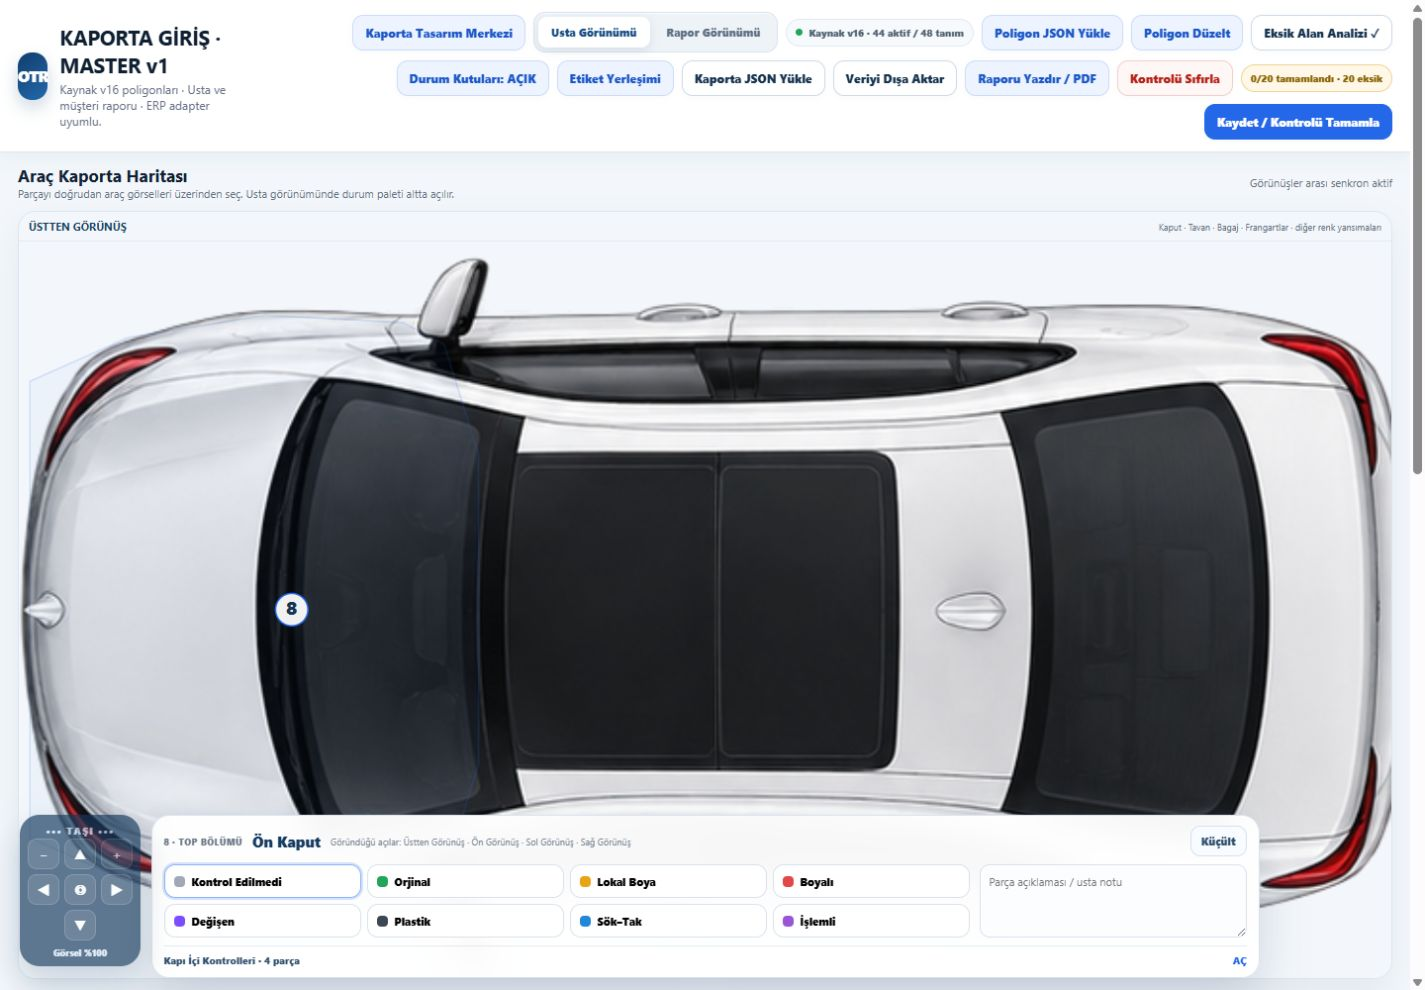
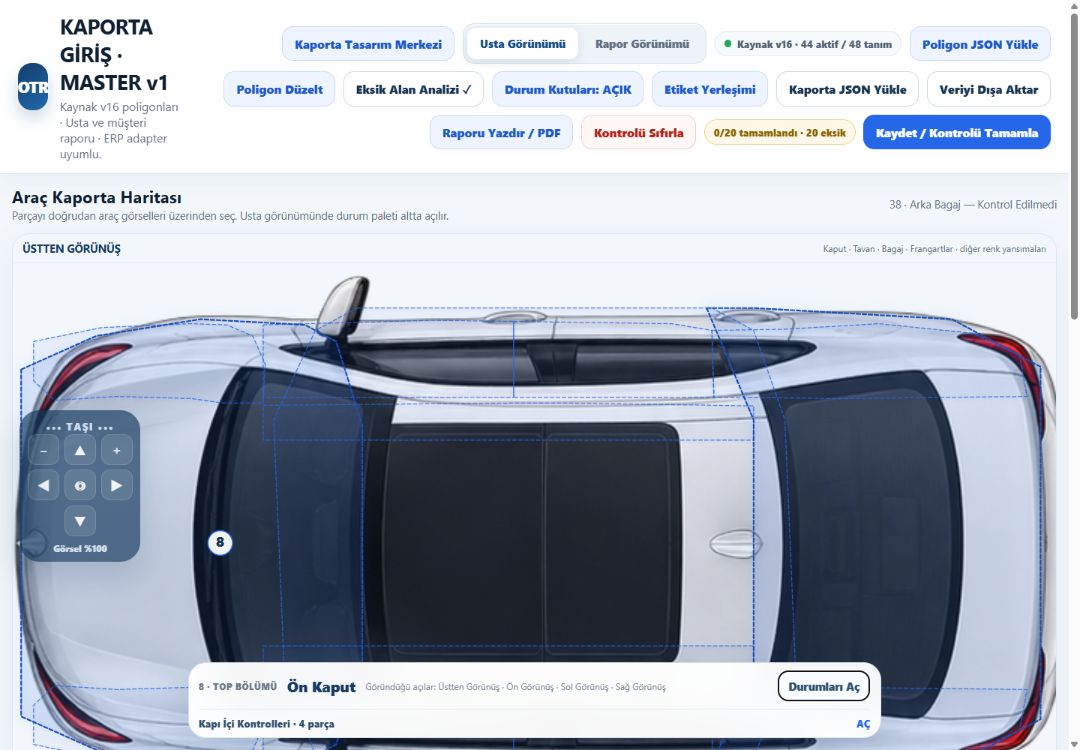
Fix Kaporta polygon visibility

diff --git a/OTOTR_Kaporta_Giris_MASTER_v1.html b/OTOTR_Kaporta_Giris_MASTER_v1.html
@@ -31,7 +31,7 @@ button{cursor:pointer}
 .views{display:grid;gap:14px}.view-row{display:grid;grid-template-columns:1fr 1fr;gap:14px}
 .view-card{overflow:hidden;background:transparent}.view-head{display:flex;align-items:center;justify-content:space-between;gap:8px;padding:7px 10px;border-bottom:1px solid rgba(220,229,239,.72);background:transparent}.view-head b{font-size:11px;color:#153b63}.view-head span{font-size:9px;color:var(--muted)}
 .stage-shell{padding:0;background:transparent;overflow:hidden}.stage{position:relative;margin:0;width:100%;max-width:none!important;line-height:0;background:transparent;border:0;border-radius:0;overflow:hidden}.stage img{display:block;width:100%;height:auto;object-fit:contain;user-select:none;-webkit-user-drag:none}.stage svg{position:absolute;inset:0;width:100%;height:100%;overflow:visible;z-index:4}.logo-blur-layer,.repair-logo-layer{position:absolute;inset:0;z-index:3;pointer-events:none}.logo-blur,.repair-logo-blur{position:absolute;transform:translate(-50%,-50%);backdrop-filter:blur(7px);-webkit-backdrop-filter:blur(7px);background:rgba(255,255,255,.24);box-shadow:0 0 0 1px rgba(255,255,255,.18) inset,0 1px 4px rgba(10,30,60,.12)}.logo-blur.circle,.repair-logo-blur.circle{border-radius:999px}.logo-blur.soft,.repair-logo-blur.soft{border-radius:12px}
-.map-poly{cursor:pointer;transition:filter .16s ease,opacity .16s ease}.map-poly polygon{stroke-width:1.35;stroke-linejoin:round;stroke-linecap:round;vector-effect:non-scaling-stroke;shape-rendering:geometricPrecision;paint-order:stroke fill;pointer-events:all;transition:fill .18s ease,stroke .18s ease,stroke-width .16s ease,opacity .16s ease,filter .16s ease;filter:drop-shadow(0 1px 1px rgba(18,45,74,.08))}.map-poly:hover polygon{stroke-width:2!important;filter:drop-shadow(0 1px 1px rgba(18,45,74,.08)) drop-shadow(0 0 3px rgba(36,103,232,.22))}.map-poly.selected polygon{stroke-width:2.45!important;filter:drop-shadow(0 1px 1px rgba(18,45,74,.10)) drop-shadow(0 0 4px rgba(36,103,232,.34))}.map-poly.unchecked polygon{fill:rgba(148,163,184,.008)!important;stroke:rgba(91,111,134,.10)!important;stroke-width:.75!important;stroke-dasharray:none;opacity:.28;filter:none}.map-poly.unchecked:hover polygon,.map-poly.unchecked.selected polygon{fill:rgba(36,103,232,.035)!important;stroke:rgba(36,103,232,.52)!important;stroke-width:1.55!important;opacity:1}.map-poly text{pointer-events:none;font-size:10px;font-weight:950;fill:#173451;text-anchor:middle;dominant-baseline:middle}.map-poly circle{pointer-events:none;fill:rgba(255,255,255,.94);stroke:#2467e8;stroke-width:1.5;vector-effect:non-scaling-stroke;filter:drop-shadow(0 2px 4px rgba(31,61,96,.16))}
+.map-poly{cursor:pointer;transition:filter .16s ease,opacity .16s ease}.map-poly polygon{stroke-width:1.35;stroke-linejoin:round;stroke-linecap:round;vector-effect:non-scaling-stroke;shape-rendering:geometricPrecision;paint-order:stroke fill;pointer-events:all;transition:fill .18s ease,stroke .18s ease,stroke-width .16s ease,opacity .16s ease,filter .16s ease;filter:drop-shadow(0 1px 1px rgba(18,45,74,.08))}.map-poly:hover polygon{stroke-width:2!important;filter:drop-shadow(0 1px 1px rgba(18,45,74,.08)) drop-shadow(0 0 3px rgba(36,103,232,.22))}.map-poly.selected polygon{stroke-width:2.45!important;filter:drop-shadow(0 1px 1px rgba(18,45,74,.10)) drop-shadow(0 0 4px rgba(36,103,232,.34))}.map-poly.unchecked polygon{fill:rgba(36,103,232,.045)!important;stroke:#2467e8!important;stroke-opacity:.82!important;stroke-width:1.25!important;stroke-dasharray:5 3;opacity:1!important;filter:drop-shadow(0 1px 1px rgba(20,67,130,.18))}.map-poly.unchecked:hover polygon,.map-poly.unchecked.selected polygon{fill:rgba(36,103,232,.11)!important;stroke:#174db8!important;stroke-opacity:1!important;stroke-width:2.15!important;opacity:1!important;filter:drop-shadow(0 0 4px rgba(36,103,232,.32))}.map-poly text{pointer-events:none;font-size:10px;font-weight:950;fill:#173451;text-anchor:middle;dominant-baseline:middle}.map-poly circle{pointer-events:none;fill:rgba(255,255,255,.94);stroke:#2467e8;stroke-width:1.5;vector-effect:non-scaling-stroke;filter:drop-shadow(0 2px 4px rgba(31,61,96,.16))}
 .top-view .stage,.side-view .stage,.end-view .stage{width:100%;max-width:none}
 .legendbar{display:flex;gap:7px;flex-wrap:wrap;padding:10px 12px;margin-top:10px}.legend-item{display:flex;align-items:center;gap:5px;font-size:10px;color:#526174;font-weight:750}.sw{width:10px;height:10px;border-radius:3px;border:1px solid rgba(0,0,0,.08)}
 .sidepanel{position:sticky;top:86px;display:grid;gap:12px}.panel{padding:13px}.panel h3{font-size:13px;margin:0 0 10px;color:#153b63}.selected-box{border:1px solid #dce6f1;border-radius:14px;background:linear-gradient(145deg,#f9fbff,#fff);padding:12px}.selected-no{font-size:10px;color:#667085;font-weight:800}.selected-name{font-size:18px;font-weight:900;margin:2px 0 4px}.selected-views{font-size:10px;color:#667085}

diff --git a/OTOTR_Kaporta_MASTER_v1_QA.md b/OTOTR_Kaporta_MASTER_v1_QA.md
@@ -42,6 +42,7 @@ Kaporta kontrolü; JavaScript sözdizimi, tekrar eden DOM kimliği, 48 kaynak ta
 ## Tarayıcı Senaryoları
 
 - Beş kaporta görseli yüklendi; 44 SVG poligonu çizildi.
+- Temiz başlangıç durumunda 44 poligonun tamamı görünür mavi kesik sınırla çizildi; hesaplanan stil `stroke-opacity: 0.82`, `stroke-width: 1.25px` ve `opacity: 1` olarak doğrulandı.
 - Dış parça poligonuna tıklama doğru kontrolü seçti; poligon editörü 12 köşe ile açıldı.
 - Kapı içi kontrolüne durum ve not girildi; completion sayacı `2/20` oldu.
 - Tamamlama ekranı 18 eksik kontrolü listeledi ve `Eksiklere Git` ilk eksik parçayı seçti.
@@ -65,7 +66,7 @@ Tüm boyutlarda yatay sayfa taşması oluşmadı; görseller ve 44 poligon yükl
 
 ## Görsel Kanıtlar
 
-- [Usta masaüstü](docs/qa/kaporta-master-v1/01-usta-desktop.png)
+- [Usta masaüstü ve görünür v16 poligonları](docs/qa/kaporta-master-v1/01-usta-desktop.png)
 - [Tamamlama kapısı](docs/qa/kaporta-master-v1/02-completion-gate.png)
 - [Müşteri raporu](docs/qa/kaporta-master-v1/03-customer-report.png)
 - [Rapor bulguları](docs/qa/kaporta-master-v1/04-report-findings.png)
